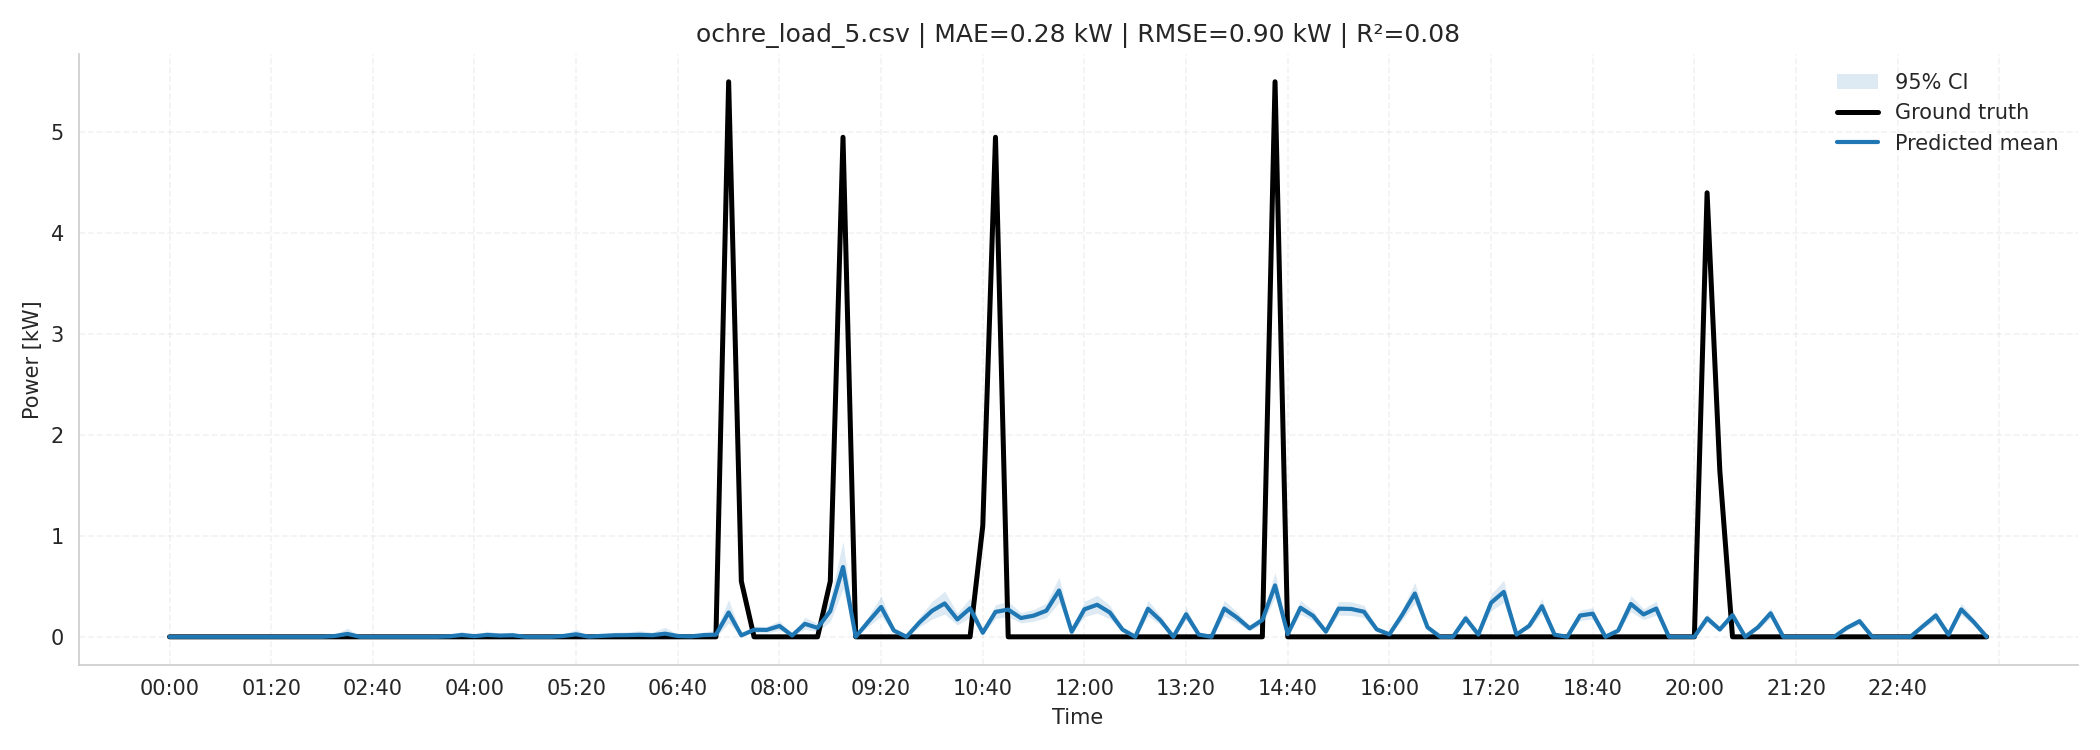
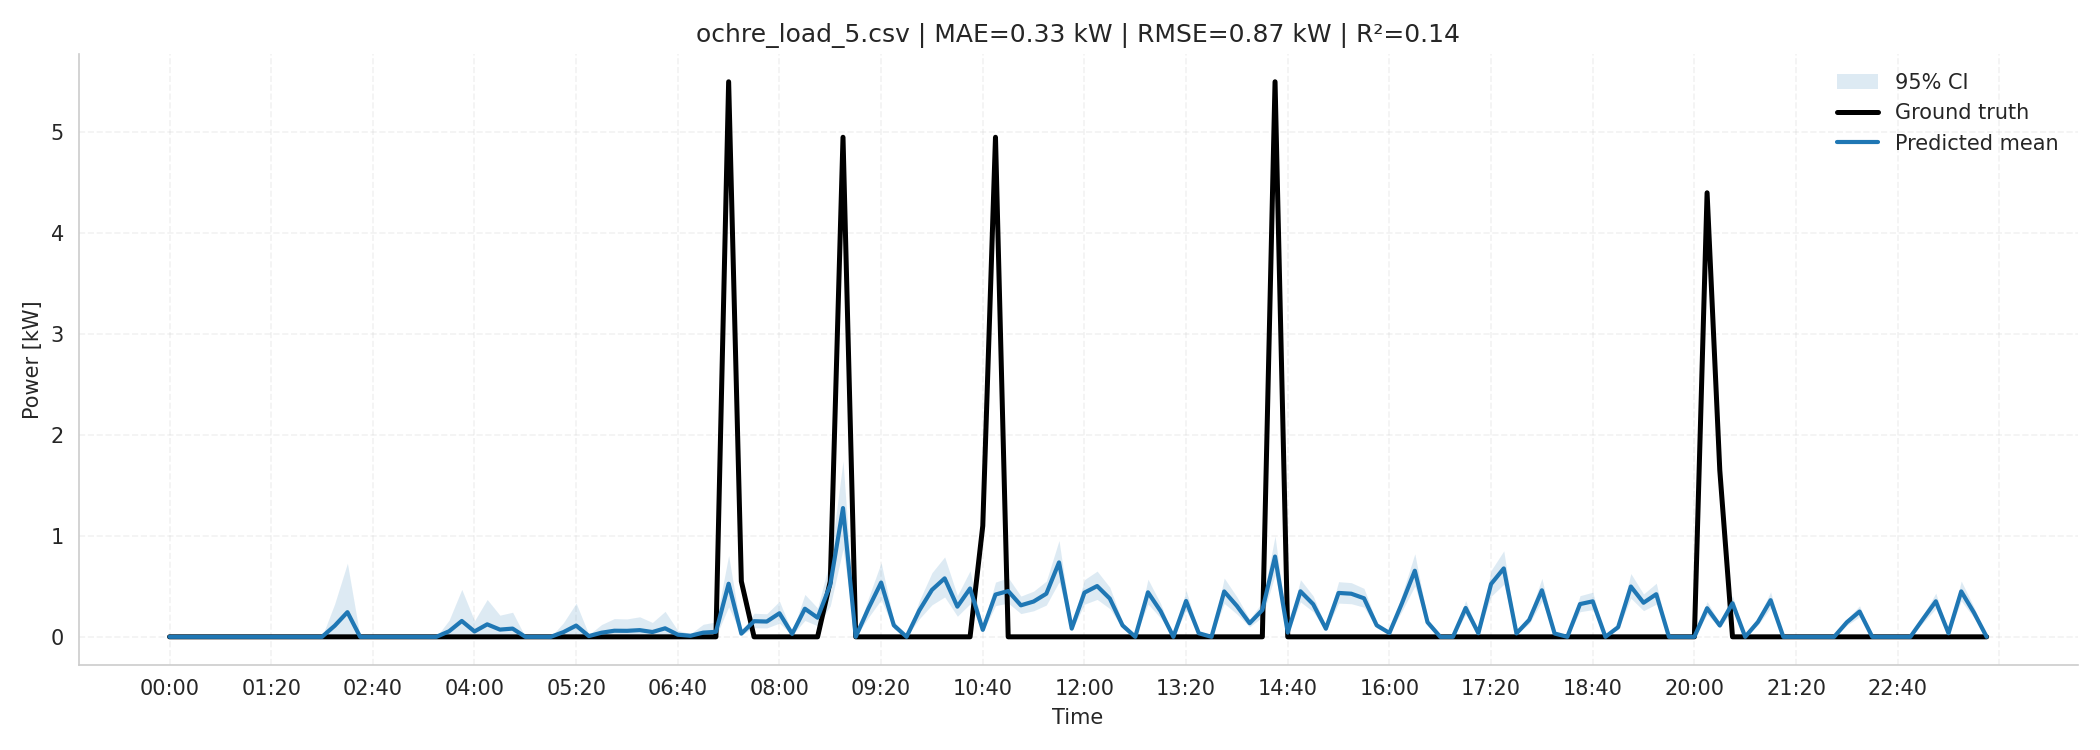
nomalized the mean and things look a lot better

Changed region(s): [[0.1548, 0.6747, 0.9595, 0.8587], [0.4952, 0.0307, 0.65, 0.0613], [0.681, 0.0307, 0.7119, 0.0613]]

diff --git a/cosimulation_tools/gld-ochre-helics/cosim_using_predownloaded_files/scripts/bayesian_implementation.py b/cosimulation_tools/gld-ochre-helics/cosim_using_predownloaded_files/scripts/bayesian_implementation.py
@@ -146,13 +146,13 @@ def create_matrices_from_bayesian_results (df : pd.DataFrame, xfmr_df : pd.DataF
 
     total = mean_matrix.sum(axis=1)  # shared denominator
 
-    # kw_mean  = mean_matrix.div(total, axis=0).multiply(feeder_demand, axis=0)
-    # kw_lower = ci_lower_matrix.div(total, axis=0).multiply(feeder_demand, axis=0)
-    # kw_upper = ci_upper_matrix.div(total, axis=0).multiply(feeder_demand, axis=0)
+    kw_mean  = mean_matrix.div(total, axis=0).multiply(feeder_demand, axis=0)
+    kw_lower = ci_lower_matrix.div(total, axis=0).multiply(feeder_demand, axis=0)
+    kw_upper = ci_upper_matrix.div(total, axis=0).multiply(feeder_demand, axis=0)
 
-    kw_mean  = mean_matrix.multiply(feeder_demand, axis=0)
-    kw_lower = ci_lower_matrix.multiply(feeder_demand, axis=0)
-    kw_upper = ci_upper_matrix.multiply(feeder_demand, axis=0)
+    # kw_mean  = mean_matrix.multiply(feeder_demand, axis=0)
+    # kw_lower = ci_lower_matrix.multiply(feeder_demand, axis=0)
+    # kw_upper = ci_upper_matrix.multiply(feeder_demand, axis=0)
 
 
     return kw_mean, kw_lower, kw_upper
